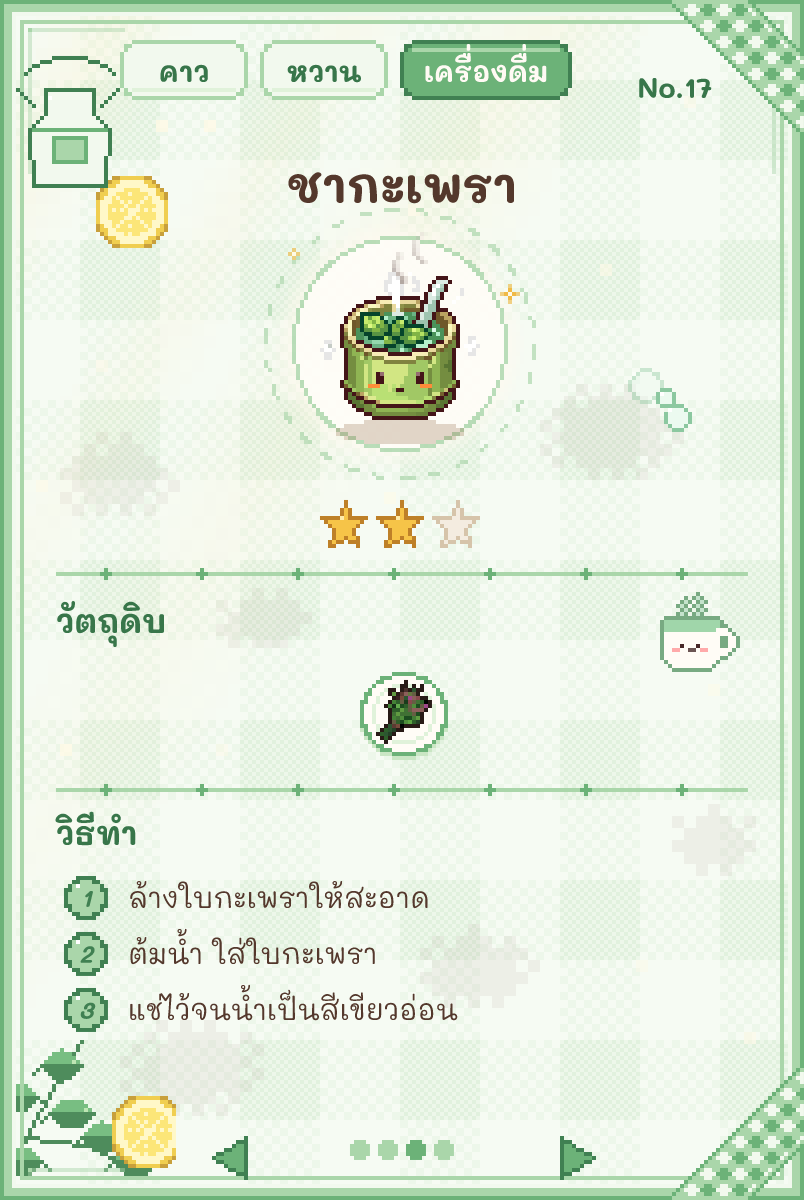
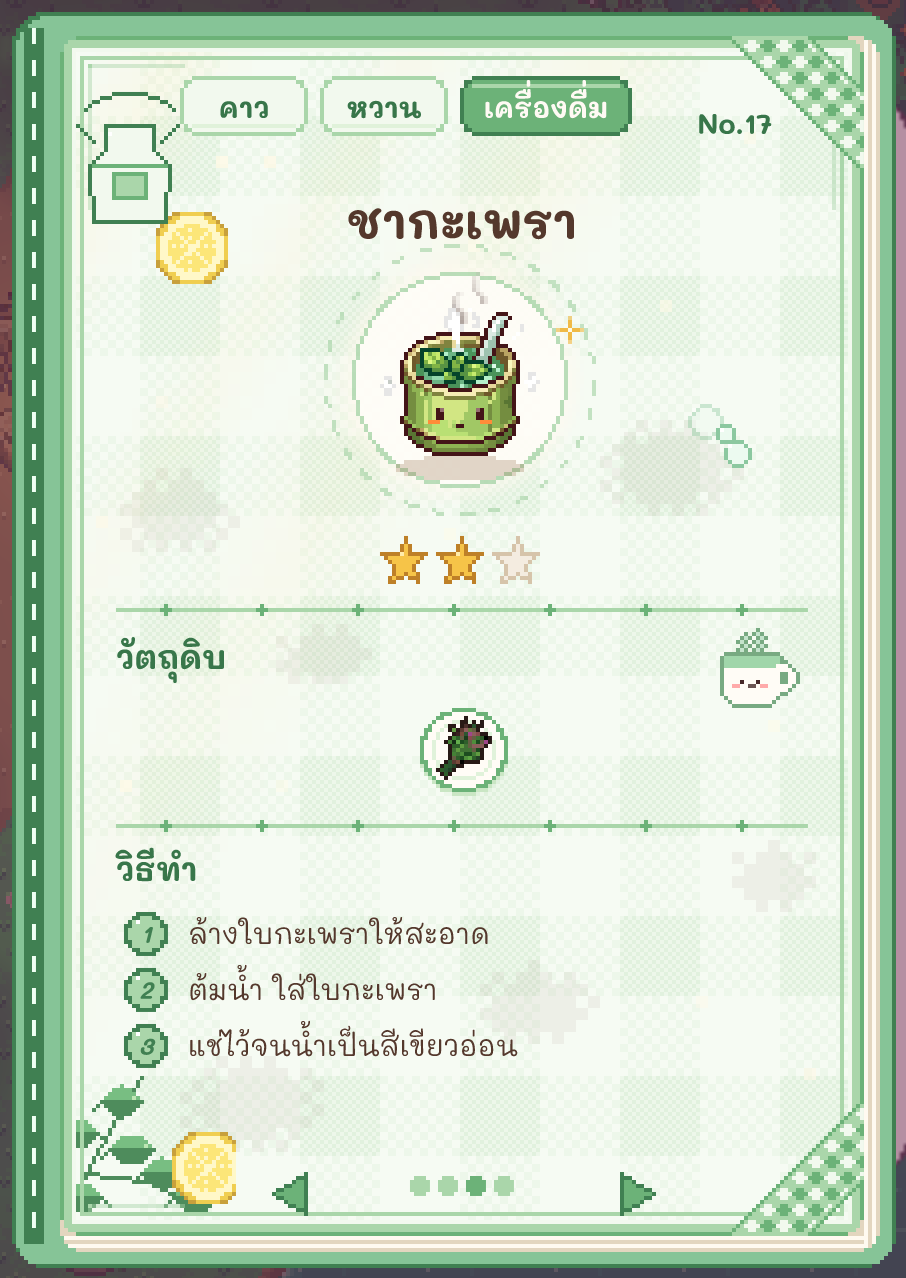
M4: ทำสมุดสูตรให้ดูเป็นสมุด และปุ่มแจ้งเวอร์ชันใหม่
หน้ามุมมนแบบขั้นพิกเซล ปกสีตามธีม สันมีรอยเย็บ ขอบกระดาษซ้อน
เกมเช็กเวอร์ชันบนเว็บตอนเปิดและตอนกลับเข้าแอป

diff --git a/src/ui/recipeBook.ts b/src/ui/recipeBook.ts
@@ -24,6 +24,49 @@ const steps = recipeSteps as Record<string, string[]>;
 const ORDER = Object.keys(recipes);
 
 const book = (name: string): string => artUrl(`ui_book_${name}`);
+
+/** ขนาดปกรอบหน้า ด้านซ้ายกว้างกว่าเพราะเป็นสัน */
+const COVER = { left: 12, right: 8, top: 6, bottom: 8 };
+const COVER_RADIUS = 9;
+const PAGE_RADIUS = 6;
+/** ความหนาของขอบกระดาษที่ซ้อนอยู่ใต้หน้า */
+const EDGE = 4;
+
+/** มุมมนแบบขั้นบันไดพิกเซล ทุกจุดเป็นจำนวนเต็มของ --bpx ภาพจึงไม่เบลอ */
+export function roundedCorner(radius: number): [number, number][] {
+  const steps: [number, number][] = [];
+  for (let row = 0; row < radius; row += 1) {
+    const dy = radius - row - 0.5;
+    steps.push([Math.round(radius - Math.sqrt(radius * radius - dy * dy)), row]);
+  }
+  return steps;
+}
+
+function roundedClip(width: number, height: number, radius: number): string {
+  const corner = roundedCorner(radius);
+  const unit = (value: number): string => `calc(var(--bpx) * ${value})`;
+  const points: string[] = [];
+  const add = (x: number, y: number): void => {
+    points.push(`${unit(x)} ${unit(y)}`);
+  };
+  for (const [inset, row] of corner) {
+    add(inset, row);
+    add(inset, row + 1);
+  }
+  for (const [inset, row] of [...corner].reverse()) {
+    add(inset, height - row - 1);
+    add(inset, height - row);
+  }
+  for (const [inset, row] of corner) {
+    add(width - inset, height - row);
+    add(width - inset, height - row - 1);
+  }
+  for (const [inset, row] of [...corner].reverse()) {
+    add(width - inset, row + 1);
+    add(width - inset, row);
+  }
+  return `polygon(${points.join(', ')})`;
+}
 const themed = (name: string, theme: Category): string => book(`${name}_${theme}`);
 
 /** ทุกตำแหน่งนับเป็นพิกเซลของหน้า 201×300 แล้วคูณ --bpx */
@@ -69,11 +112,20 @@ export function createRecipeBook(uiRoot: HTMLElement): void {
   backdrop.id = 'recipe-book';
   backdrop.hidden = true;
   const page = element('div', 'book-page');
+  page.style.clipPath = roundedClip(201, 300, PAGE_RADIUS);
+  // ปก สัน และขอบกระดาษวาดด้วยโค้ด ให้หน้าสูตรดูเป็นสมุดจริง
+  const cover = element('i', 'book-cover');
+  cover.style.clipPath = roundedClip(201 + COVER.left + COVER.right, 300 + COVER.top + COVER.bottom, COVER_RADIUS);
+  const edges = element('i', 'book-edges');
+  edges.style.clipPath = roundedClip(201 + EDGE, 300 + EDGE, PAGE_RADIUS);
+  const spine = element('i', 'book-spine');
+  const volume = element('div', 'book-volume');
+  volume.append(cover, spine, edges, page);
   const close = element('button', 'phone-tool book-close', '×');
   close.id = 'book-close';
   close.type = 'button';
   close.setAttribute('aria-label', t('ui.close'));
-  backdrop.append(page, close);
+  backdrop.append(volume, close);
   uiRoot.append(backdrop);
 
   let current = 'home_kaprao';
@@ -181,6 +233,7 @@ export function createRecipeBook(uiRoot: HTMLElement): void {
     const known = world.known.includes(current);
     const best = world.bestStars[current] ?? 0;
     page.dataset.theme = theme;
+    volume.dataset.theme = theme;
     page.dataset.recipe = current;
     page.classList.toggle('is-locked', !known);
     const parts: HTMLElement[] = [...background(theme)];

diff --git a/src/ui/styles.css b/src/ui/styles.css
@@ -2481,3 +2481,89 @@ canvas {
 .book-note > * {
   position: absolute;
 }
+
+/* ปก สัน และขอบกระดาษของสมุดสูตร ทึบทั้งหมด วาดเป็นพิกเซล */
+.book-volume {
+  --cover: #d9965a;
+  --cover-dark: #a06030;
+  --stitch: #fff1dc;
+  position: relative;
+  width: calc(var(--bpx) * 201);
+  height: calc(var(--bpx) * 300);
+}
+
+.book-volume[data-theme='sweet'] {
+  --cover: #e996b4;
+  --cover-dark: #b25276;
+  --stitch: #fff0f5;
+}
+
+.book-volume[data-theme='drink'] {
+  --cover: #86c497;
+  --cover-dark: #408052;
+  --stitch: #f0fff4;
+}
+
+.book-cover,
+.book-edges,
+.book-spine {
+  position: absolute;
+  display: block;
+  pointer-events: none;
+}
+
+.book-cover {
+  top: calc(var(--bpx) * -6);
+  left: calc(var(--bpx) * -12);
+  width: calc(var(--bpx) * 221);
+  height: calc(var(--bpx) * 314);
+  background: var(--cover-dark);
+}
+
+/* ผิวปกอยู่ใน ขอบเข้ม 1 พิกเซลรอบนอก */
+.book-cover::after {
+  position: absolute;
+  inset: calc(var(--bpx) * 1);
+  background: var(--cover);
+  clip-path: inherit;
+  content: '';
+}
+
+.book-spine {
+  top: calc(var(--bpx) * -2);
+  left: calc(var(--bpx) * -9);
+  width: calc(var(--bpx) * 5);
+  height: calc(var(--bpx) * 304);
+  background: repeating-linear-gradient(
+    to bottom,
+    var(--stitch) 0 calc(var(--bpx) * 4),
+    transparent calc(var(--bpx) * 4) calc(var(--bpx) * 8)
+  ) center / calc(var(--bpx) * 1) 100% no-repeat,
+    var(--cover-dark);
+  z-index: 1;
+}
+
+/* กระดาษหลายแผ่นซ้อนกันโผล่ด้านขวาและด้านล่าง */
+.book-edges {
+  top: 0;
+  left: 0;
+  width: calc(var(--bpx) * 205);
+  height: calc(var(--bpx) * 304);
+  background:
+    repeating-linear-gradient(to right, #fffaf0 0 calc(var(--bpx) * 1), #e3d6bf calc(var(--bpx) * 1) calc(var(--bpx) * 2)) right / calc(var(--bpx) * 4) 100% no-repeat,
+    repeating-linear-gradient(to bottom, #fffaf0 0 calc(var(--bpx) * 1), #e3d6bf calc(var(--bpx) * 1) calc(var(--bpx) * 2)) bottom / 100% calc(var(--bpx) * 4) no-repeat,
+    #e3d6bf;
+}
+
+#update-button {
+  position: absolute;
+  top: max(6px, env(safe-area-inset-top));
+  left: 50%;
+  z-index: 6;
+  transform: translateX(-50%);
+  pointer-events: auto;
+}
+
+#update-button[hidden] {
+  display: none;
+}

diff --git a/src/ui/update.ts b/src/ui/update.ts
@@ -1,0 +1,37 @@
+import { t } from '../core/i18n';
+
+const SCRIPT_PATTERN = /assets\/index-[\w-]+\.js/;
+
+/** ไฟล์เกมที่หน้านี้โหลดอยู่ เปิดแบบเครื่องผู้พัฒนาไม่มีชื่อแบบนี้ จึงไม่เช็ก */
+function loadedScript(): string | null {
+  const script = document.querySelector<HTMLScriptElement>('script[type="module"][src]');
+  return script?.src.match(SCRIPT_PATTERN)?.[0] ?? null;
+}
+
+/** iPhone มักค้างหน้าเก่าไว้ เช็กไฟล์เกมบนเว็บตอนเปิดและตอนกลับเข้าแอป ถ้าใหม่กว่าให้ผู้เล่นแตะโหลดเอง */
+export function createUpdateCheck(uiRoot: HTMLElement): void {
+  const current = loadedScript();
+  if (!current) return;
+  const button = document.createElement('button');
+  button.id = 'update-button';
+  button.type = 'button';
+  button.className = 'phone-tool';
+  button.hidden = true;
+  button.textContent = t('update.available');
+  button.addEventListener('click', () => window.location.reload());
+  uiRoot.append(button);
+
+  const check = async (): Promise<void> => {
+    try {
+      const response = await fetch(`${import.meta.env.BASE_URL}?v=${Date.now()}`, { cache: 'no-store' });
+      const latest = (await response.text()).match(SCRIPT_PATTERN)?.[0];
+      button.hidden = !latest || latest === current;
+    } catch {
+      // ไม่มีเน็ตก็เล่นต่อได้ตามปกติ
+    }
+  };
+  void check();
+  document.addEventListener('visibilitychange', () => {
+    if (document.visibilityState === 'visible') void check();
+  });
+}

diff --git a/src/ui/overlay.ts b/src/ui/overlay.ts
@@ -9,6 +9,7 @@ import { createHud } from './hud';
 import { createJoystick } from './joystick';
 import { createPhone } from './phone';
 import { createRecipeBook } from './recipeBook';
+import { createUpdateCheck } from './update';
 import { createSaves } from './saves';
 import { createSettings, initSettings } from './settings';
 import { createToolbar } from './toolbar';
@@ -59,6 +60,7 @@ export function createOverlay(uiRoot: HTMLElement, appRoot: HTMLElement): void {
   createPhone(uiRoot);
   createSaves(uiRoot);
   createRecipeBook(uiRoot);
+  createUpdateCheck(uiRoot);
 }
 
 export function updateRotationRequired(appRoot: HTMLElement): void {

diff --git a/tests/unit/book.test.ts b/tests/unit/book.test.ts
@@ -1,0 +1,13 @@
+import { describe, expect, it } from 'vitest';
+import { roundedCorner } from '../../src/ui/recipeBook';
+
+describe('book corners', () => {
+  it('steps in whole pixels and gets wider toward the edge', () => {
+    const steps = roundedCorner(6);
+    expect(steps).toHaveLength(6);
+    for (const [inset] of steps) expect(Number.isInteger(inset)).toBe(true);
+    const insets = steps.map(([inset]) => inset);
+    expect(insets[0]).toBeGreaterThan(insets[insets.length - 1]!);
+    expect(insets[insets.length - 1]).toBe(0);
+  });
+});

diff --git a/CLAUDE.md b/CLAUDE.md
@@ -246,7 +246,7 @@ help-tower-game/
 
 **กองไฟใน M4 (ผู้ใช้ตัดสิน 3 พ.ย. 2026):** ใช้ได้ตั้งแต่เริ่ม ขั้นคราฟต์มาใน M9 · ปกติ 1 ดาว เกจสุข 70 ขึ้นไป 2 ดาว 3 ดาวรอดาววัตถุดิบ · ผสมผิดได้อาหารปริศนา วัตถุดิบหาย เติมอิ่ม +5 เสียสุข −5 ตอนเก็บ พร้อมบทพูดใน `lines.json` · เครื่องดื่มเริ่มเกม น้ำมะเขือเทศ ชากะเพรา นมอุ่นน้ำผึ้ง ทำที่กองไฟ · น้ำสตรอว์เบอร์รีต้องรอเมล็ดจากร้านใน M6 · สูตรทั้งหมดอยู่ใน `recipes.json` ตามเอกสารเศรษฐกิจกับ `docs/chest_and_desserts_2026-11-02.md`
 
-**ภาพ M4:** ไอคอนอาหาร `dish_icon_*` 48px ใช้ในการ์ดใหญ่และบนกองไฟ · `dish_bag_*` `food_bag_*` ใช้ในช่องกระเป๋า · วัตถุดิบ `ing_icon_*` · ท่าทำอาหาร `anim_cook_*` ย่อตัว 0–3 วน 4–8 ลุก 3–0 · **สมุดสูตร v4** `docs/m4_recipe_book_v4_2026-11-03.md` หน้าละสูตร ธีมคาวส้ม หวานชมพู เครื่องดื่มมินต์ เปิดเป็นหน้าต่างของตัวเอง ขยายจำนวนเต็มด้วย `--bpx`
+**ภาพ M4:** ไอคอนอาหาร `dish_icon_*` 48px ใช้ในการ์ดใหญ่และบนกองไฟ · `dish_bag_*` `food_bag_*` ใช้ในช่องกระเป๋า · วัตถุดิบ `ing_icon_*` · ท่าทำอาหาร `anim_cook_*` ย่อตัว 0–3 วน 4–8 ลุก 3–0 · **สมุดสูตร v4** `docs/m4_recipe_book_v4_2026-11-03.md` หน้าละสูตร ธีมคาวส้ม หวานชมพู เครื่องดื่มมินต์ เปิดเป็นหน้าต่างของตัวเอง ขยายจำนวนเต็มด้วย `--bpx` · ผู้ใช้ขอให้ดูเป็นสมุด (3 พ.ย. 2026): หน้ามุมมนแบบขั้นพิกเซล ปกสีตามธีม สันมีรอยเย็บซ้าย ขอบกระดาษซ้อนขวาและล่าง วาดด้วยโค้ด · เกมเช็กเวอร์ชันบนเว็บตอนเปิดและตอนกลับเข้าแอป ถ้ามีใหม่ขึ้นปุ่ม "มีเวอร์ชันใหม่ แตะเพื่อโหลด"
 
 **ถาดอาหาร:** `food_tray_3` → `food_tray_6` → `food_tray_10` ลงสีหยก ช่องวางจานตามตารางถาดใน GDD
 
